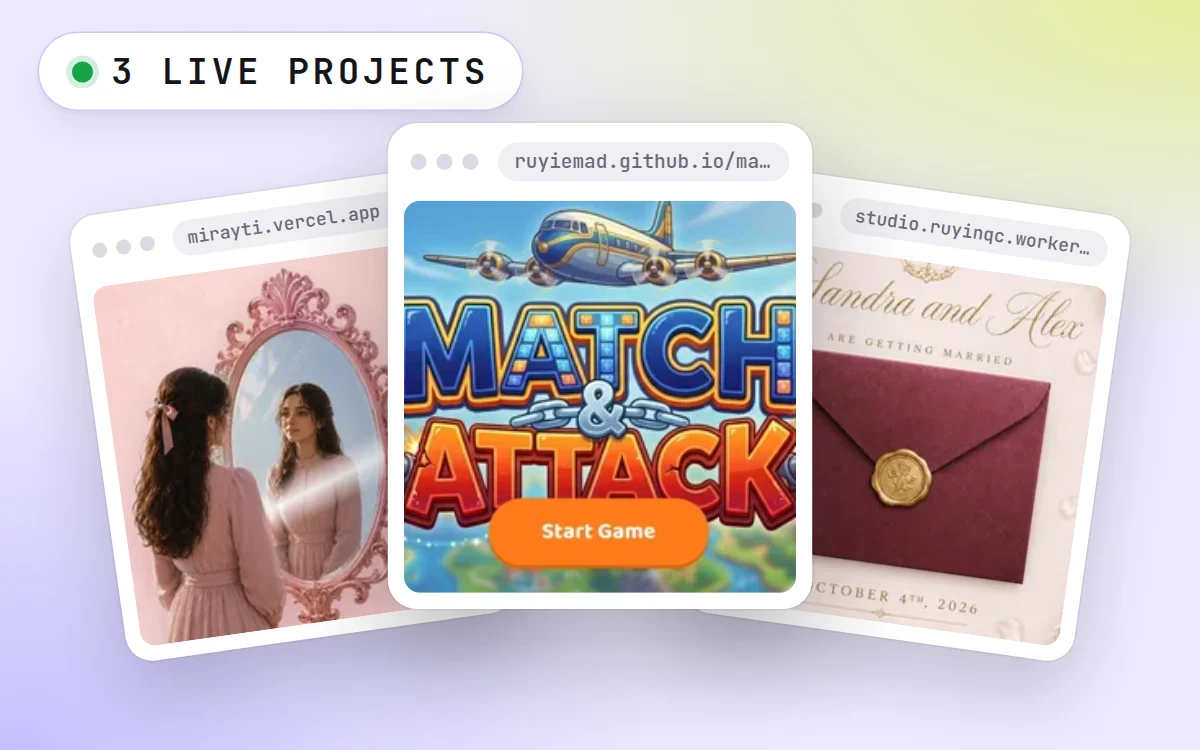
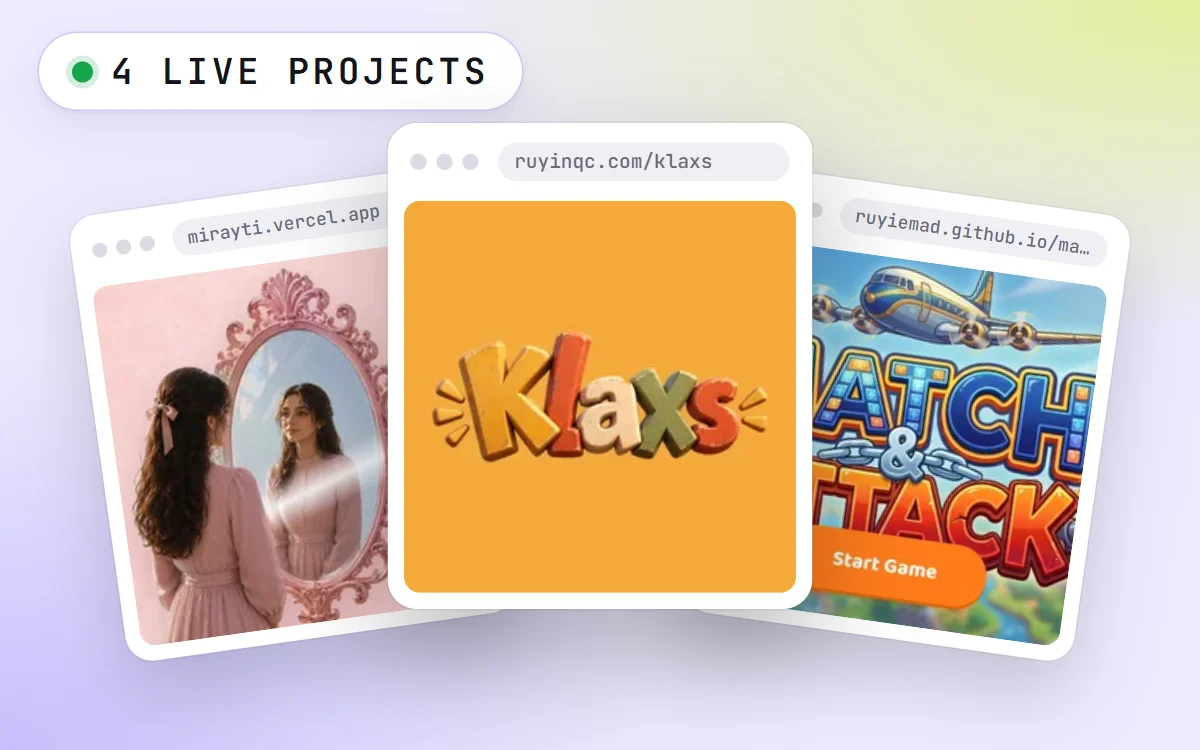
Add Klaxs as the first vibe coding project
Klaxs (ruyinqc.com/klaxs/), the Egyptian car-horn driving game, leads the
Vibe Coding Projects list with its app icon and a phone screenshot of a
drive. The card and meta now count four projects, and the card thumbnail is
redrawn with Klaxs in the centre window: make-thumbs.js now puts the first
project in the middle and counts every live project in the pill, not only
the three it shows.

Changed region(s): [[0.3083, 0.184, 0.925, 0.8587], [0.0925, 0.0613, 0.1233, 0.1227]]

diff --git a/assets/js/data.js b/assets/js/data.js
@@ -627,7 +627,7 @@ window.WORK = [
 
   card: {
     title: 'Vibe Coding Projects',
-    sub: 'Three things I designed and built myself, end to end, with AI as my pair programmer.',
+    sub: 'Four things I designed and built myself, end to end, with AI as my pair programmer.',
     tags: [],
     thumb: {
       // the projects below, as browser windows. tools/make-thumbs.js draws it
@@ -646,8 +646,8 @@ window.WORK = [
   meta: {
     'Role':     { value: 'Designer & builder', note: 'Idea owner' },
     'AI tool':  { value: 'Claude.ai' },
-    'Projects': { value: '3', note: 'All live' },
-    'Type':     { value: 'Freelance', note: 'All delivered' },
+    'Projects': { value: '4', note: 'All live' },
+    'Type':     { value: 'Freelance & personal', note: '3 delivered, 1 own game' },
     'Status':   { value: 'Live' }
   },
 
@@ -660,6 +660,9 @@ window.WORK = [
       // `view` is a screenshot of the site as it is used: device 'mobile' or
       // 'desktop'. A card without one shows its square `img` instead.
       items: [
+        { name: 'Klaxs',            url: 'https://ruyinqc.com/klaxs/',
+          img: 'assets/img/vibe/klaxs.webp',            badges: ['Personal project', 'Live'],
+          view: { src: 'assets/img/vibe/klaxs-mobile.webp', width: 400, height: 667, device: 'mobile' } },
         { name: 'Mirayti',          url: 'https://mirayti.vercel.app/',
           img: 'assets/img/vibe/mirayti.webp',          badges: ['Freelance', 'Delivered'] },
         { name: 'Match and Attack', url: 'https://ruyiemad.github.io/match-and-attack/',

diff --git a/tools/make-thumbs.js b/tools/make-thumbs.js
@@ -130,14 +130,17 @@ const HTML = `<!DOCTYPE html>
     document.getElementById('cairo').innerHTML = Mockups['dash-cairo']();
     document.getElementById('beijing').innerHTML = Mockups['dash-beijing']();
 
-    // The first three projects that have a picture, fanned out left, centre, right.
+    // The first three projects that have a picture, fanned out: the first in
+    // the big centre window, the next two either side of it. The pill counts
+    // every live one, shown or not.
     var vibe = WORK.filter(function (w) { return w.slug === 'vibe-coding'; })[0];
-    var items = [].concat.apply([], vibe.blocks.map(function (b) {
+    var all = [].concat.apply([], vibe.blocks.map(function (b) {
       return b.type === 'projects' ? b.items : [];
-    })).filter(function (p) { return p.img; }).slice(0, 3);
-    var live = items.filter(function (p) { return p.url; }).length;
+    }));
+    var items = all.filter(function (p) { return p.img; }).slice(0, 3);
+    var live = all.filter(function (p) { return p.url; }).length;
     document.getElementById('vibe').innerHTML = items.map(function (p, i) {
-      return '<figure class="win win--' + (i + 1) + '">' +
+      return '<figure class="win win--' + [2, 1, 3][i] + '">' +
         '<div class="win__bar"><i></i><i></i><i></i><span>' +
           (p.url || p.name).replace(/^https?:\\/\\//, '').replace(/\\/$/, '') + '</span></div>' +
         '<img src="' + p.img + '" alt="">' +
